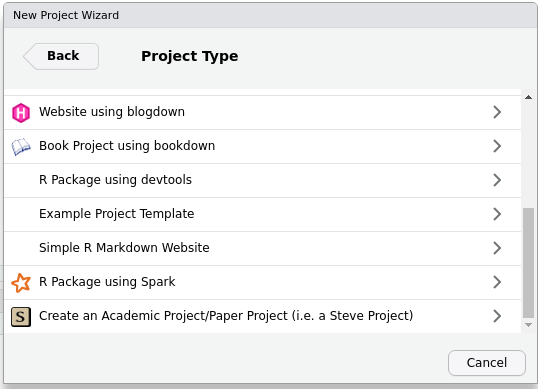
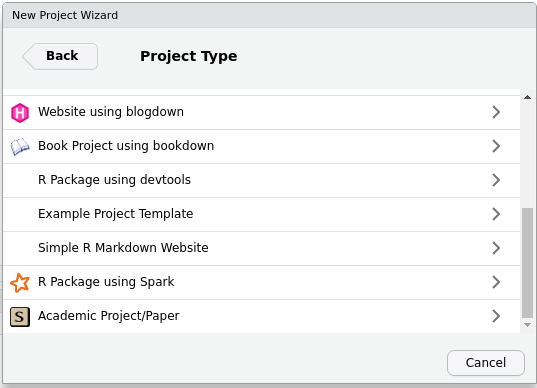
addy mcaddadd

diff --git a/README.md b/README.md
@@ -81,8 +81,9 @@ Select “New Directory”.
 ![](inst/README/steveproj-1.png)
 
 That will direct you here. Scroll down your available project types
-until you see my “Steve project” entry. It will have that “S” icon (that
-is incidentally the icon for my website). Select it.
+until you see my “S” icon, which is incidentally the favicon on [my
+website](http://svmiller.com). Select that entry to create a new
+academic paper/project.
 
 ![](inst/README/steveproj-2.png)
 
